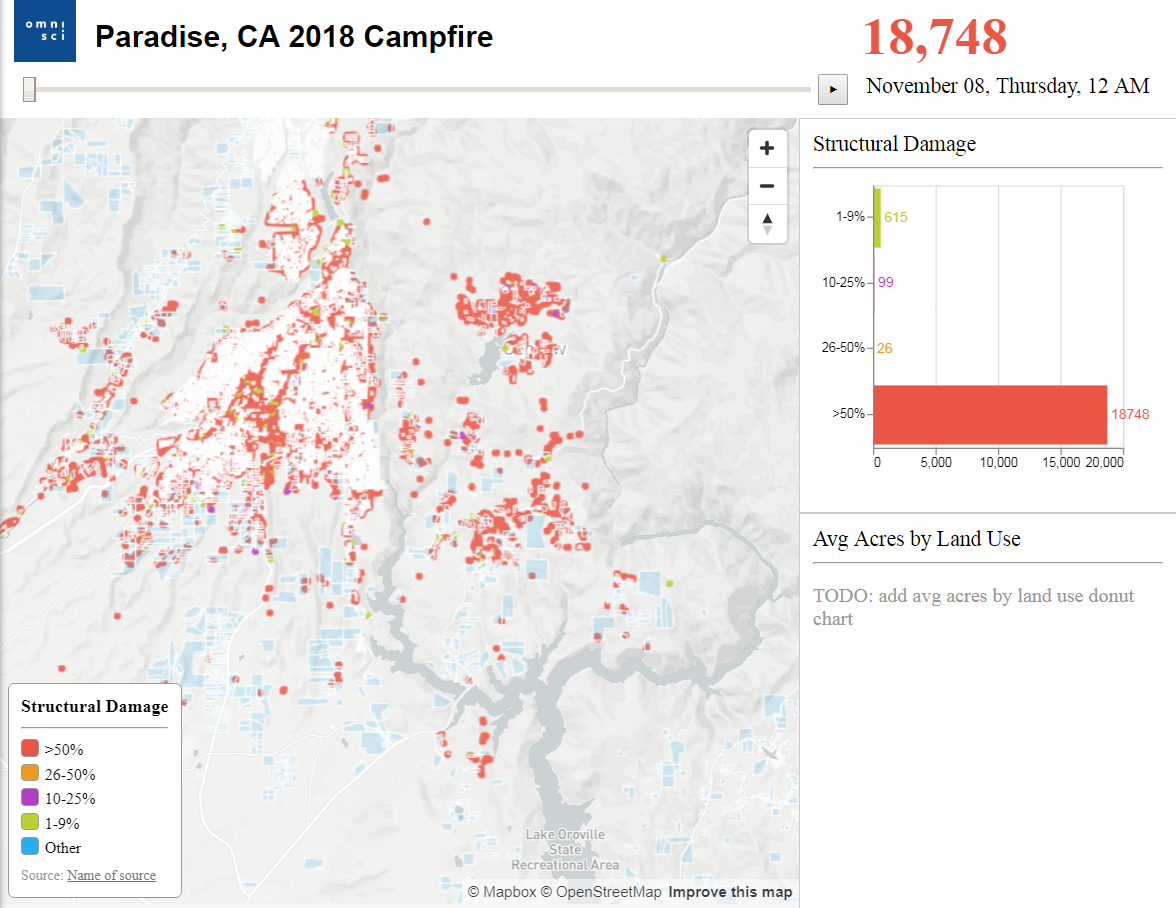
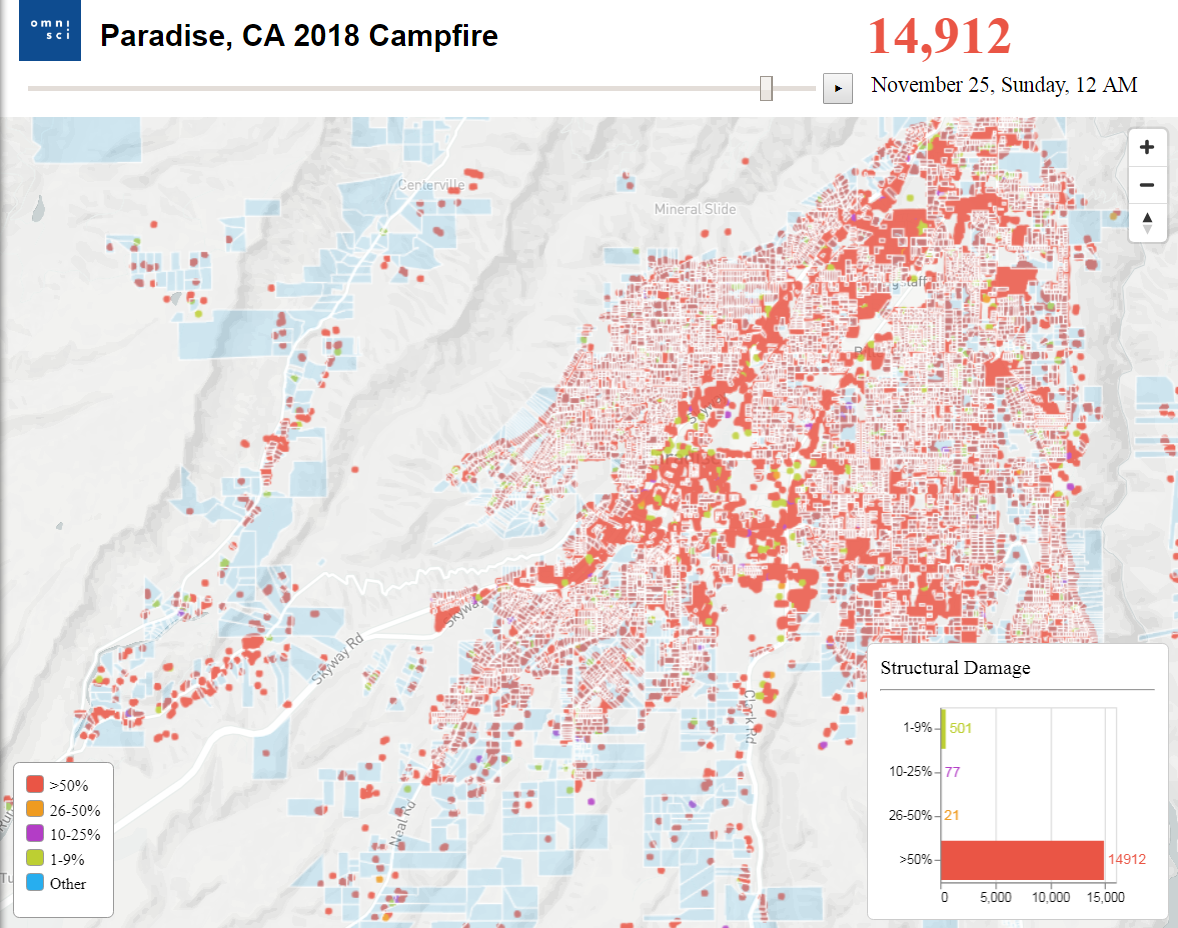
MVP UI changes for just damage bar chart callout map overlay display

diff --git a/src/index.js b/src/index.js
@@ -15,7 +15,6 @@ import { initTimeLabel } from './components/time-label';
 import { initPlayPauseButton } from './components/play-pause-button';
 import { initCounterLabel } from './components/counter-label';
 import { initDamageChart } from './components/damage-chart';
-import { initAcresChart } from './components/acres-chart';
 import { getColor } from './common/damage-color-palette';
 
 // main app bootstrapping on content loaded
@@ -45,16 +44,9 @@ function main() {
           <hr />
           <div id="damage-chart" class="chart-container"></div>
         </div>
-        <div class="chart">
-          <span class="chart-title">Avg Acres by Land Use</span>
-          <hr />
-          <div id="acres-chart" class="chart-container"></div>
-        </div>
       </div>
     </div>
     <div class='legend-box'>
-      <div class='legend-title'>Structural Damage</div>
-      <hr />
       <div class='legend-scale'>
         <ul class='legend-labels'>
           <li><span style='background: ${getColor('Destroyed (>50%)')};'></span>&gt;50%</li>
@@ -64,7 +56,6 @@ function main() {
           <li><span style='background: ${getColor('Other')};'></span>Other</li>
         </ul>
       </div>
-      <div class='legend-source'>Source: <a href="#link to source">Name of source</a></div>
     </div>`;
 
   // initialize app controls
@@ -74,7 +65,6 @@ function main() {
   initPlayPauseButton();
   initCounterLabel();
   initDamageChart();
-  initAcresChart();
 
   // TODO: add data stats queries and charts update
   

diff --git a/src/styles.css b/src/styles.css
@@ -87,29 +87,30 @@ body {
 }
 
 #map {
-  width: calc(100% - 300px);
-  height: calc(100% - 100px);
+  width: 100%;
+  height: 100%;
 }
 
 #side-panel {
   position: absolute;
-  top: 95px;
-  right: 0px;
-  width: 300px;
-  height: calc(100% - 100px);
+  bottom: 10px;
+  right: 10px;
+  width: 240px;
+  height: 220px;
 }
 
 .chart {
-  width: 280px;
-  height: calc(50% - 20px);
+  width: 220px;
+  height: 200px;
   margin: 0px;
   padding: 10px;
   border: 1px solid #ccc;
   background-color: white;
+  border-radius: 5px;
 }
 
 .chart-title {
-  font-size: 13pt;
+  font-size: 12pt;
 }
 
 hr {

diff --git a/src/components/damage-chart.js b/src/components/damage-chart.js
@@ -17,8 +17,8 @@ export function updateDamageChart(damageData) {
   // damage bar chart vega spec
   const vegaSpec = {
     "$schema": "https://vega.github.io/schema/vega-lite/v3.json",
-    "width": 200,
-    "height": 210,
+    "width": 140,
+    "height": 140,
     "padding": 5,
     "data": {
       "values": chartData
